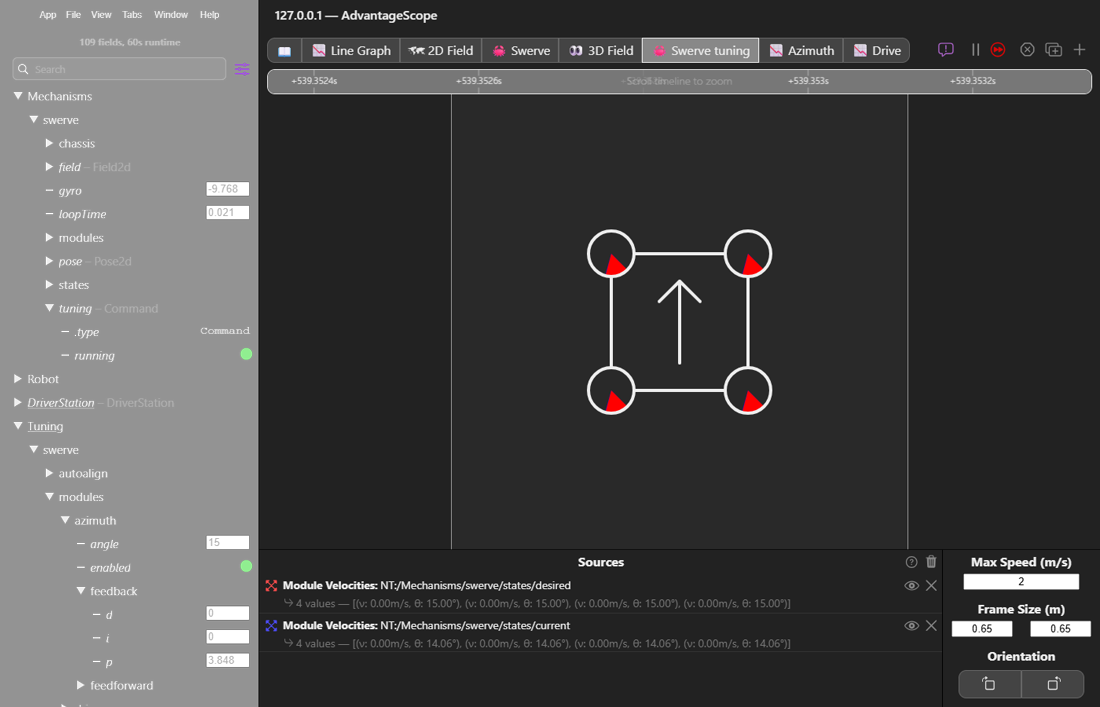
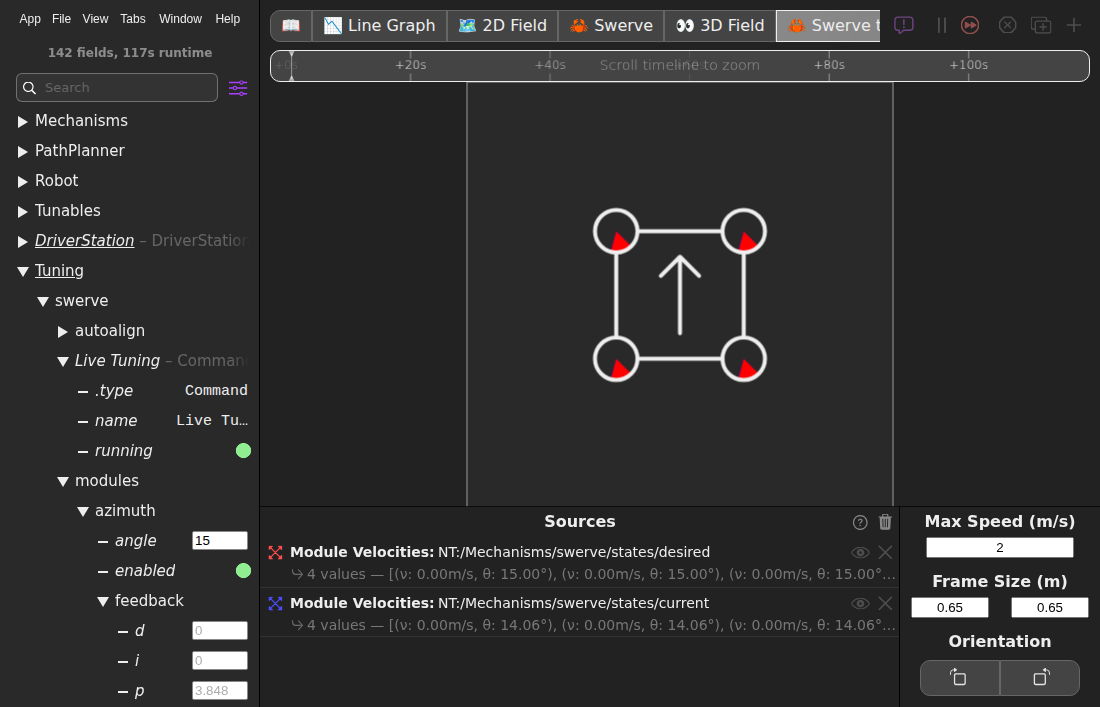
Live tuning images: show the tuning command at Tuning/swerve/Live Tuning
Since YAMS 2026.11.03 the swerve tuning command is published at Tuning/swerve/Live Tuning instead of
Mechanisms/swerve/tuning. The two AdvantageScope screenshots are recaptured from the YAGSL Commands v2
example in simulation, and the live tuning animation shows the new path.

diff --git a/tutorial/practice-in-simulation.md b/tutorial/practice-in-simulation.md
@@ -11,17 +11,17 @@ explains each piece.
 
 **Start live tuning.** Enable Utility mode, start the `Tuning/swerve/Live Tuning` command, and turn on one tuning mode. `Tuning/swerve/` values only take effect while the command runs.
 
-<figure><img src="../.gitbook/assets/yagsl-live-tuning-start.gif" alt="An animation of a dashboard. First the robot mode is set to Utility. Then Mechanisms/swerve/tuning is set to running: true. Then Tuning/swerve/modules/azimuth/enabled is set to true. Notes beside it explain each step: Utility mode with nothing else driving, starting the tuning command, and picking one tuning mode at a time."><figcaption><p>Utility mode, the tuning command, then one tuning mode.</p></figcaption></figure>
+<figure><img src="../.gitbook/assets/yagsl-live-tuning-start.gif" alt="An animation of a dashboard. First the robot mode is set to Utility. Then Tuning/swerve/Live Tuning is set to running: true. Then Tuning/swerve/modules/azimuth/enabled is set to true. Notes beside it explain each step: Utility mode with nothing else driving, starting the tuning command, and picking one tuning mode at a time."><figcaption><p>Utility mode, the tuning command, then one tuning mode.</p></figcaption></figure>
 
 <figure><img src="../.gitbook/assets/yagsl-sim-utility-mode.png" alt="The Robot State panel of the WPILib simulation GUI with two numbered markers: 1 on Utility and 2 on Enable. The OpMode dropdown is left at NONE."><figcaption><p>In simulation: in the sim GUI's Robot State panel, pick Utility (1), then Enable (2). Leave the OpMode at NONE, because a teleop op mode would drive the modules and fight the tuning.</p></figcaption></figure>
 
-<figure><img src="../.gitbook/assets/yagsl-ascope-enable-tuning.png" alt="AdvantageScope connected to the simulation with four numbered markers. 1 is the tuning mode button beside the sidebar search, which makes the values editable. 2 is the running switch under Mechanisms/swerve/tuning, which starts the tuning command. 3 is the angle field under Tuning/swerve/modules/azimuth, where you type the setpoint. 4 is the enabled switch under Tuning/swerve/modules/azimuth, which turns azimuth tuning on."><figcaption><p>In AdvantageScope: turn on tuning mode (1), click <code>running</code> to start the tuning command (2), type the setpoint (3), then turn one tuning mode on (4).</p></figcaption></figure>
+<figure><img src="../.gitbook/assets/yagsl-ascope-enable-tuning.png" alt="AdvantageScope connected to the simulation with four numbered markers. 1 is the tuning mode button beside the sidebar search, which makes the values editable. 2 is the running switch under Tuning/swerve/Live Tuning, which starts the tuning command. 3 is the angle field under Tuning/swerve/modules/azimuth, where you type the setpoint. 4 is the enabled switch under Tuning/swerve/modules/azimuth, which turns azimuth tuning on."><figcaption><p>In AdvantageScope: turn on tuning mode (1), click <code>running</code> to start the tuning command (2), type the setpoint (3), then turn one tuning mode on (4).</p></figcaption></figure>
 
 **Tune the azimuth first**, so the wheels point where they are told while you tune the drive. Set `Tuning/swerve/modules/azimuth/enabled` to `true` and switch `modules/azimuth/angle` between `0` and `15`. Raise `feedback/p` until the modules snap to the angle; if they overshoot and shake, back it off and add a little `feedback/d`.
 
 <figure><img src="../.gitbook/assets/yagsl-tune-azimuth.gif" alt="An animation of every module turning from 0 to 15 degrees beside a graph of the desired and current angle. With p at 0.002 the modules turn slowly and are still short of 15 degrees. With p at 0.05 they overshoot and ring. With p at 0.03 and d at 0.0005 they turn quickly and settle. The values are only an example."><figcaption><p>Too slow, ringing, then quick and settled. The values are only an example.</p></figcaption></figure>
 
-<figure><img src="../.gitbook/assets/yagsl-ascope-azimuth-swerve.png" alt="AdvantageScope connected to the YAGSL example in simulation. The sidebar shows Mechanisms/swerve/tuning with running on, and Tuning/swerve/modules/azimuth with angle 15, enabled on and the feedback gains. The Swerve tab shows every module turned to 15 degrees, desired in red and current in blue."><figcaption><p>The real thing: azimuth tuning in AdvantageScope, every module at 15°.</p></figcaption></figure>
+<figure><img src="../.gitbook/assets/yagsl-ascope-azimuth-swerve.png" alt="AdvantageScope connected to the YAGSL example in simulation. The sidebar shows Tuning/swerve/Live Tuning with running on, and Tuning/swerve/modules/azimuth with angle 15, enabled on and the feedback gains. The Swerve tab shows every module turned to 15 degrees, desired in red and current in blue."><figcaption><p>The real thing: azimuth tuning in AdvantageScope, every module at 15°.</p></figcaption></figure>
 
 <figure><img src="../.gitbook/assets/yagsl-ascope-azimuth-graph.png" alt="An AdvantageScope line graph of Tuning/swerve/modules/azimuth/angle stepping between 0 and 15 degrees and Mechanisms/swerve/modules/frontleft/encoder following it, settling a little short of each step."><figcaption><p>Graph Tuning/swerve/modules/azimuth/angle against a module's encoder to judge the gains.</p></figcaption></figure>
 

diff --git a/how-to/tune-pidf-gains.md b/how-to/tune-pidf-gains.md
@@ -162,11 +162,11 @@ var cfg = new SwerveDriveConfig()
 
 `swerve` in these paths is the telemetry name from `withTelemetry("swerve", ...)`.
 
-<figure><img src="../.gitbook/assets/yagsl-live-tuning-start.gif" alt="An animation of a dashboard. First the robot mode is set to Utility. Then Mechanisms/swerve/tuning is set to running: true. Then Tuning/swerve/modules/azimuth/enabled is set to true."><figcaption><p>Utility mode, the tuning command, then one tuning mode.</p></figcaption></figure>
+<figure><img src="../.gitbook/assets/yagsl-live-tuning-start.gif" alt="An animation of a dashboard. First the robot mode is set to Utility. Then Tuning/swerve/Live Tuning is set to running: true. Then Tuning/swerve/modules/azimuth/enabled is set to true."><figcaption><p>Utility mode, the tuning command, then one tuning mode.</p></figcaption></figure>
 
 <figure><img src="../.gitbook/assets/yagsl-sim-utility-mode.png" alt="The Robot State panel of the WPILib simulation GUI with two numbered markers: 1 on Utility and 2 on Enable. The OpMode dropdown is left at NONE."><figcaption><p>In simulation: in the sim GUI's Robot State panel, pick Utility (1), then Enable (2). Leave the OpMode at NONE, because a teleop op mode would drive the modules and fight the tuning.</p></figcaption></figure>
 
-<figure><img src="../.gitbook/assets/yagsl-ascope-enable-tuning.png" alt="AdvantageScope connected to the simulation with four numbered markers. 1 is the tuning mode button beside the sidebar search, which makes the values editable. 2 is the running switch under Mechanisms/swerve/tuning, which starts the tuning command. 3 is the angle field under Tuning/swerve/modules/azimuth, where you type the setpoint. 4 is the enabled switch under Tuning/swerve/modules/azimuth, which turns azimuth tuning on."><figcaption><p>In AdvantageScope: turn on tuning mode (1), click <code>running</code> to start the tuning command (2), type the setpoint (3), then turn one tuning mode on (4).</p></figcaption></figure>
+<figure><img src="../.gitbook/assets/yagsl-ascope-enable-tuning.png" alt="AdvantageScope connected to the simulation with four numbered markers. 1 is the tuning mode button beside the sidebar search, which makes the values editable. 2 is the running switch under Tuning/swerve/Live Tuning, which starts the tuning command. 3 is the angle field under Tuning/swerve/modules/azimuth, where you type the setpoint. 4 is the enabled switch under Tuning/swerve/modules/azimuth, which turns azimuth tuning on."><figcaption><p>In AdvantageScope: turn on tuning mode (1), click <code>running</code> to start the tuning command (2), type the setpoint (3), then turn one tuning mode on (4).</p></figcaption></figure>
 
 <figure><img src="../.gitbook/assets/yagsl-tune-azimuth.gif" alt="An animation of every module turning from 0 to 15 degrees beside a graph of the desired and current angle: too slow with a low p, overshooting and ringing with a high p, and quick and settled with a little less p plus some d. The values are only an example."><figcaption><p>Azimuth: raise p until it rings, then back off and add d. The values are only an example.</p></figcaption></figure>
 
